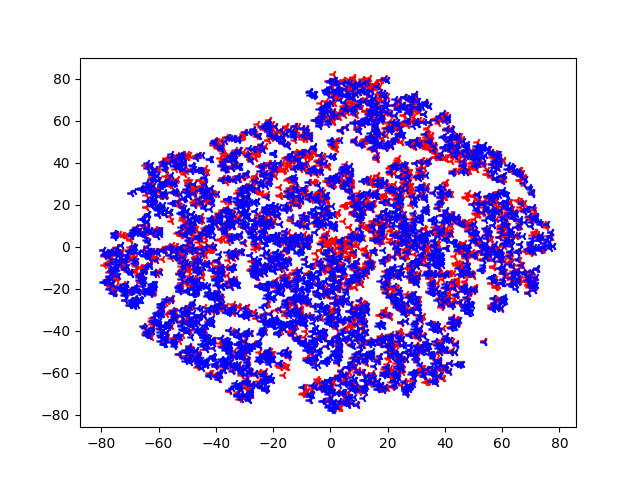
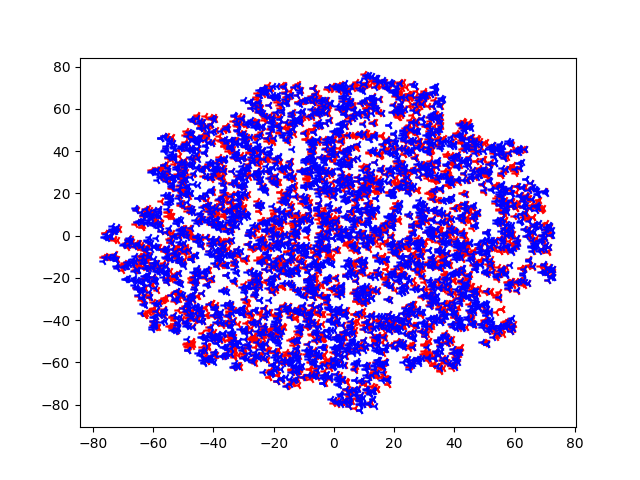
m

diff --git a/Visualizations/VAE_tsne.py b/Visualizations/VAE_tsne.py
@@ -8,7 +8,9 @@ from ast import literal_eval
 from sklearn.manifold import TSNE
 
 
-df=pd.read_csv('../graph_MNIST.tsv', sep='\t', index_col=0)
+# df=pd.read_csv('../graph_MNIST.tsv', sep='\t', index_col=0)
+df=pd.read_csv('../graph_SST2.tsv', sep='\t', index_col=0)
+num_classes=2
 # labels=list(df['labs'])
 #
 # dfPos=df[df['labs']==1]
@@ -24,7 +26,7 @@ colors=['red', 'blue', 'green',
 		'black', 'purple', 'orange',
 		'grey', 'yellow', 'cyan',
 		'magenta']
-for i in range(10):
+for i in range(num_classes):
 	dfTemp=df[df['labs']==i]
 	x=dfTemp['x']
 	y=dfTemp['y']
@@ -34,7 +36,8 @@ for i in range(10):
 # plt.scatter(x=xPos, y=yPos, c='red')#, marker='3')
 # plt.scatter(x=xNeg, y=yNeg, c='blue', marker='3')
 
-plt.savefig(f"../Graphes/test_MNIST_Annealing.png")
+# plt.savefig(f"../Graphes/test_MNIST_Annealing.png")
+plt.savefig(f"../Graphes/test_SST2_Annealing.png")
 #
 # dfEx=df[df['x']>75]
 # # dfEx=dfEx[dfEx['x']>76]
